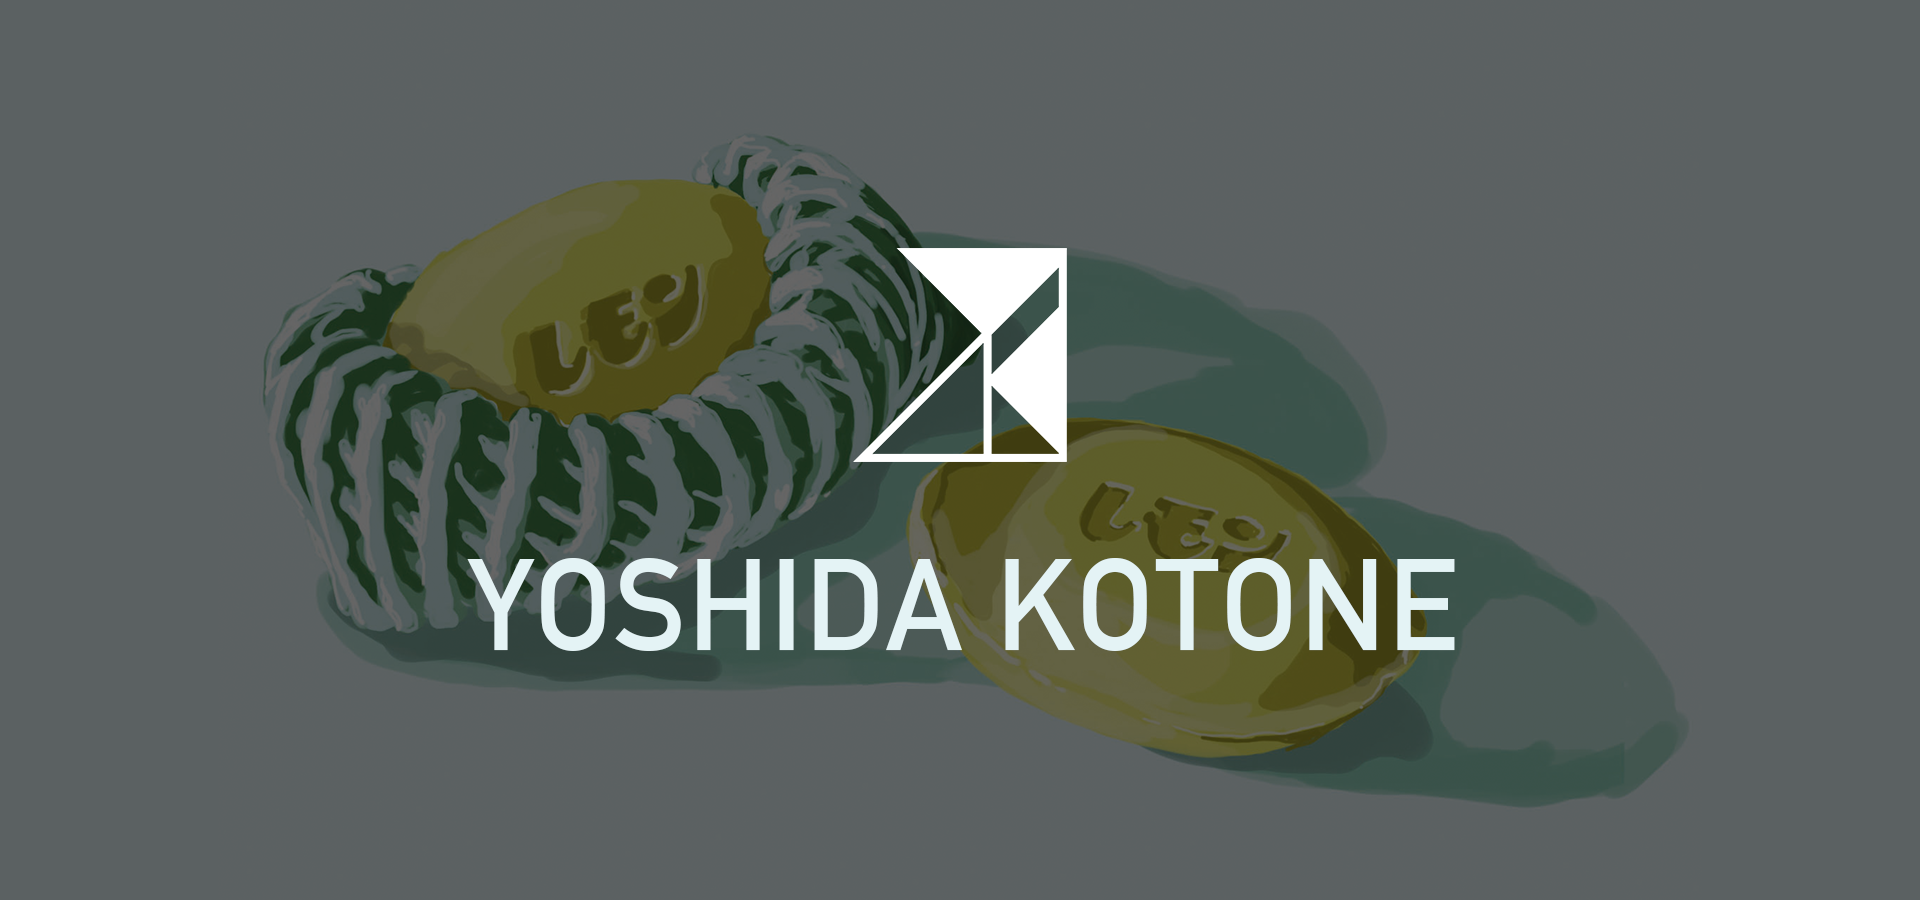
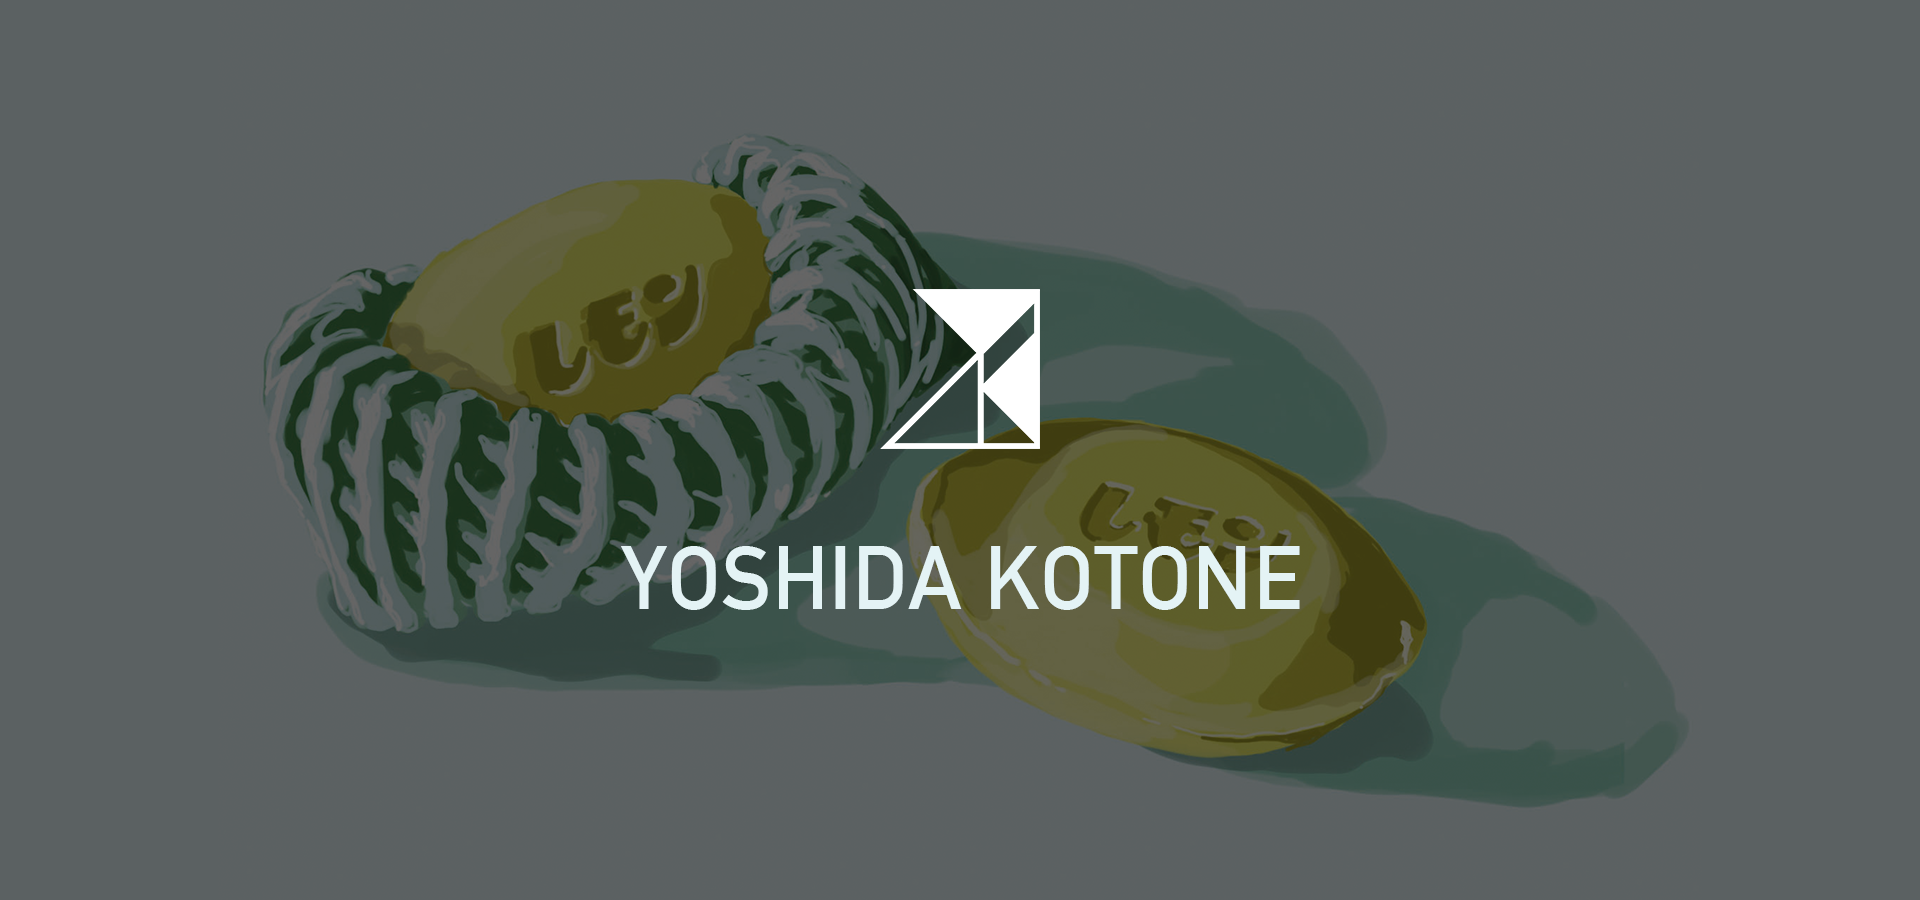
aboutのデザインを変更

Changed region(s): [[0.25, 0.5911, 0.7812, 0.7467], [0.4375, 0.2489, 0.5625, 0.5289]]

diff --git a/static/scss/style.scss b/static/scss/style.scss
@@ -212,64 +212,62 @@ hr{
             width: 100%;
         }
     }
-    h1{
-        margin-top: 75px;
-        margin-bottom: 16px;
-    }
-    .profile-icon{
-        max-width: 50%;
-        margin-left: auto;
-        margin-right: auto;
-        .profile-img{
-            width: 18vw;
-            border-radius: 100vw;
-            display: block;
-            margin-left: auto;
-            margin-right: auto;
-        
-            @media screen and (min-width: 0px) and(max-width: $iphone678p-width+1) {
-                width: 30vw;
-                border-radius: 100vw;
-                display: block;
-                margin-top: 30px;
-                margin-bottom: 30px;
-            }
-        }
-    }
-    .sns-icon{
-        margin-top: 30px;
-        margin-bottom: 70px;
-        img{
-            width: 40px;
-            height: 40px;
-            margin-right: 30px;
-            margin-left: 30px;
-        }
-        @media screen and (max-width: $threshold-width) {
-            margin-top: 30px;
-            margin-bottom: 50px;
-            img{
-                width: 30px;
-                height: 30px;
-                margin-right: 10px;
-                margin-left: 10px;
-            } 
-        }
-    }
 }
 
 /* -------------------- about -------------------- */
 .about{
-    text-align: center;
     margin-top: 70px;
     margin-bottom: 70px;
     display: block;
-    h2{
-        margin-bottom: 50px;
-    }
-    .about-content{
-        display: inline-block;
-        text-align: left;
+    .about-contents{
+        display: flex;
+        width: max-content;
+        margin-left: auto;
+        margin-right: auto;
+        padding: 40px;
+        border: solid 3px #bcbcbc;
+        border-radius: 10px;
+
+        .profile-icon{
+            max-width: 50%;
+            margin-right: 100px;
+            .profile-img{
+                width: 18vw;
+                border-radius: 100vw;
+                display: block;
+            
+                @media screen and (min-width: 0px) and(max-width: $iphone678p-width+1) {
+                    width: 30vw;
+                    border-radius: 100vw;
+                    display: block;
+                    margin-top: 30px;
+                    margin-bottom: 30px;
+                }
+            }
+        }
+
+        .about-texts{
+            height: max-content;
+            text-align: left;
+            .sns-icon{
+                img{
+                    width: 40px;
+                    height: 40px;
+                    margin-right: 30px;
+                    margin-left: 30px;
+                }
+                @media screen and (max-width: $threshold-width) {
+                    margin-top: 30px;
+                    margin-bottom: 50px;
+                    img{
+                        width: 30px;
+                        height: 30px;
+                        margin-right: 10px;
+                        margin-left: 10px;
+                    } 
+                }
+            }
+        }
     }
 }
 

diff --git a/static/css/style.css b/static/css/style.css
@@ -163,55 +163,51 @@ hr {
   text-align: center; }
   .entry .thumbnail_index img {
     width: 100%; }
-  .entry h1 {
-    margin-top: 75px;
-    margin-bottom: 16px; }
-  .entry .profile-icon {
-    max-width: 50%;
-    margin-left: auto;
-    margin-right: auto; }
-    .entry .profile-icon .profile-img {
-      width: 18vw;
-      border-radius: 100vw;
-      display: block;
-      margin-left: auto;
-      margin-right: auto; }
-      @media screen and (min-width: 0px) and (max-width: 415px) {
-        .entry .profile-icon .profile-img {
-          width: 30vw;
-          border-radius: 100vw;
-          display: block;
-          margin-top: 30px;
-          margin-bottom: 30px; } }
-  .entry .sns-icon {
-    margin-top: 30px;
-    margin-bottom: 70px; }
-    .entry .sns-icon img {
-      width: 40px;
-      height: 40px;
-      margin-right: 30px;
-      margin-left: 30px; }
-    @media screen and (max-width: 560px) {
-      .entry .sns-icon {
-        margin-top: 30px;
-        margin-bottom: 50px; }
-        .entry .sns-icon img {
-          width: 30px;
-          height: 30px;
-          margin-right: 10px;
-          margin-left: 10px; } }
 
 /* -------------------- about -------------------- */
 .about {
-  text-align: center;
   margin-top: 70px;
   margin-bottom: 70px;
   display: block; }
-  .about h2 {
-    margin-bottom: 50px; }
-  .about .about-content {
-    display: inline-block;
-    text-align: left; }
+  .about .about-contents {
+    display: flex;
+    width: max-content;
+    margin-left: auto;
+    margin-right: auto;
+    padding: 40px;
+    border: solid 3px #bcbcbc;
+    border-radius: 10px; }
+    .about .about-contents .profile-icon {
+      max-width: 50%;
+      margin-right: 100px; }
+      .about .about-contents .profile-icon .profile-img {
+        width: 18vw;
+        border-radius: 100vw;
+        display: block; }
+        @media screen and (min-width: 0px) and (max-width: 415px) {
+          .about .about-contents .profile-icon .profile-img {
+            width: 30vw;
+            border-radius: 100vw;
+            display: block;
+            margin-top: 30px;
+            margin-bottom: 30px; } }
+    .about .about-contents .about-texts {
+      height: max-content;
+      text-align: left; }
+      .about .about-contents .about-texts .sns-icon img {
+        width: 40px;
+        height: 40px;
+        margin-right: 30px;
+        margin-left: 30px; }
+      @media screen and (max-width: 560px) {
+        .about .about-contents .about-texts .sns-icon {
+          margin-top: 30px;
+          margin-bottom: 50px; }
+          .about .about-contents .about-texts .sns-icon img {
+            width: 30px;
+            height: 30px;
+            margin-right: 10px;
+            margin-left: 10px; } }
 
 /* -------------------- footer -------------------- */
 .footer-border {

diff --git a/index.html b/index.html
@@ -44,24 +44,26 @@
         <img src="static/images/HP_thumbnail_index.png">
     </div>
     <div class="about">
-        <h2>ABOUT</h2>
-        <div class="profile-icon">
-            <img class="profile-img" src="static/images/icon.png">
-        </div>
-        <div class="about-content">
-            <h3>YOSHIDA KOTONE</h3>
-            <p>2000.07.04</p>
-            <p>京都市立芸術大学美術学部総合芸術学科</p>
-            <p>座右の銘は「デザインは問題解決だ」です。</p>
-        </div>
-        <div class="sns-icon">
-            <a href="https://twitter.com/ysd_ktn"><img src="static/images/twitter.png"></a>
-            <a href="https://www.instagram.com/ktn__kk/?hl=ja"><img src="static/images/instagram.png"></a>
-            <a href="https://github.com/ysd-ktn"><img src="static/images/github.png"></a>
+        <h1>ABOUT</h1>
+        <div class="about-contents">
+            <div class="profile-icon">
+                <img class="profile-img" src="static/images/icon.png">
+            </div>
+            <div class="about-texts">
+                <h3>YOSHIDA KOTONE</h3>
+                <p>2000.07.04</p>
+                <p>京都市立芸術大学美術学部総合芸術学科</p>
+                <p>座右の銘は「デザインは問題解決だ」です。</p>
+                <div class="sns-icon">
+                   <a href="https://twitter.com/ysd_ktn"><img src="static/images/twitter.png"></a>
+                    <a href="https://www.instagram.com/ktn__kk/?hl=ja"><img src="static/images/instagram.png"></a>
+                    <a href="https://github.com/ysd-ktn"><img src="static/images/github.png"></a>
+                </div>
+            </div>
         </div>
     </div>
     <div class="skills">
-        <h2>SKILLS</h2>
+        <h1>SKILLS</h1>
         <div class="skills-table">
             
                 <img src="static/images/skills/xd.png">
@@ -94,7 +96,7 @@
                     <p>Adobe Indesign</p>
                 </div>
             
-                <img src="static/images/skills/premierero.png">
+                <img src="static/images/skills/premierepro.png">
                 <div class="skills-name">
                     <p>Adobe Premiere Pro</p>
                 </div>
@@ -107,7 +109,7 @@
         </div>
     </div>
     <div class="works">
-        <h2>WORKS</h2>
+        <h1>WORKS</h1>
     </div>
 </div>
 

diff --git a/templates/index.html b/templates/index.html
@@ -6,24 +6,26 @@
         <img src="{{ url_for('static', filename='images/HP_thumbnail_index.png') }}">
     </div>
     <div class="about">
-        <h2>ABOUT</h2>
-        <div class="profile-icon">
-            <img class="profile-img" src="{{ url_for('static', filename='images/icon.png') }}">
-        </div>
-        <div class="about-content">
-            <h3>YOSHIDA KOTONE</h3>
-            <p>2000.07.04</p>
-            <p>京都市立芸術大学美術学部総合芸術学科</p>
-            <p>座右の銘は「デザインは問題解決だ」です。</p>
-        </div>
-        <div class="sns-icon">
-            <a href="https://twitter.com/ysd_ktn"><img src="{{ url_for('static', filename='images/twitter.png') }}"></a>
-            <a href="https://www.instagram.com/ktn__kk/?hl=ja"><img src="{{ url_for('static', filename='images/instagram.png') }}"></a>
-            <a href="https://github.com/ysd-ktn"><img src="{{ url_for('static', filename='images/github.png') }}"></a>
+        <h1>ABOUT</h1>
+        <div class="about-contents">
+            <div class="profile-icon">
+                <img class="profile-img" src="{{ url_for('static', filename='images/icon.png') }}">
+            </div>
+            <div class="about-texts">
+                <h3>YOSHIDA KOTONE</h3>
+                <p>2000.07.04</p>
+                <p>京都市立芸術大学美術学部総合芸術学科</p>
+                <p>座右の銘は「デザインは問題解決だ」です。</p>
+                <div class="sns-icon">
+                   <a href="https://twitter.com/ysd_ktn"><img src="{{ url_for('static', filename='images/twitter.png') }}"></a>
+                    <a href="https://www.instagram.com/ktn__kk/?hl=ja"><img src="{{ url_for('static', filename='images/instagram.png') }}"></a>
+                    <a href="https://github.com/ysd-ktn"><img src="{{ url_for('static', filename='images/github.png') }}"></a>
+                </div>
+            </div>
         </div>
     </div>
     <div class="skills">
-        <h2>SKILLS</h2>
+        <h1>SKILLS</h1>
         <div class="skills-table">
             {% for skills in skills_list['skills'] %}
                 <img src="{{ url_for('static', filename='images/skills/'+skills.filename) }}">
@@ -34,7 +36,7 @@
         </div>
     </div>
     <div class="works">
-        <h2>WORKS</h2>
+        <h1>WORKS</h1>
     </div>
 </div>
 
